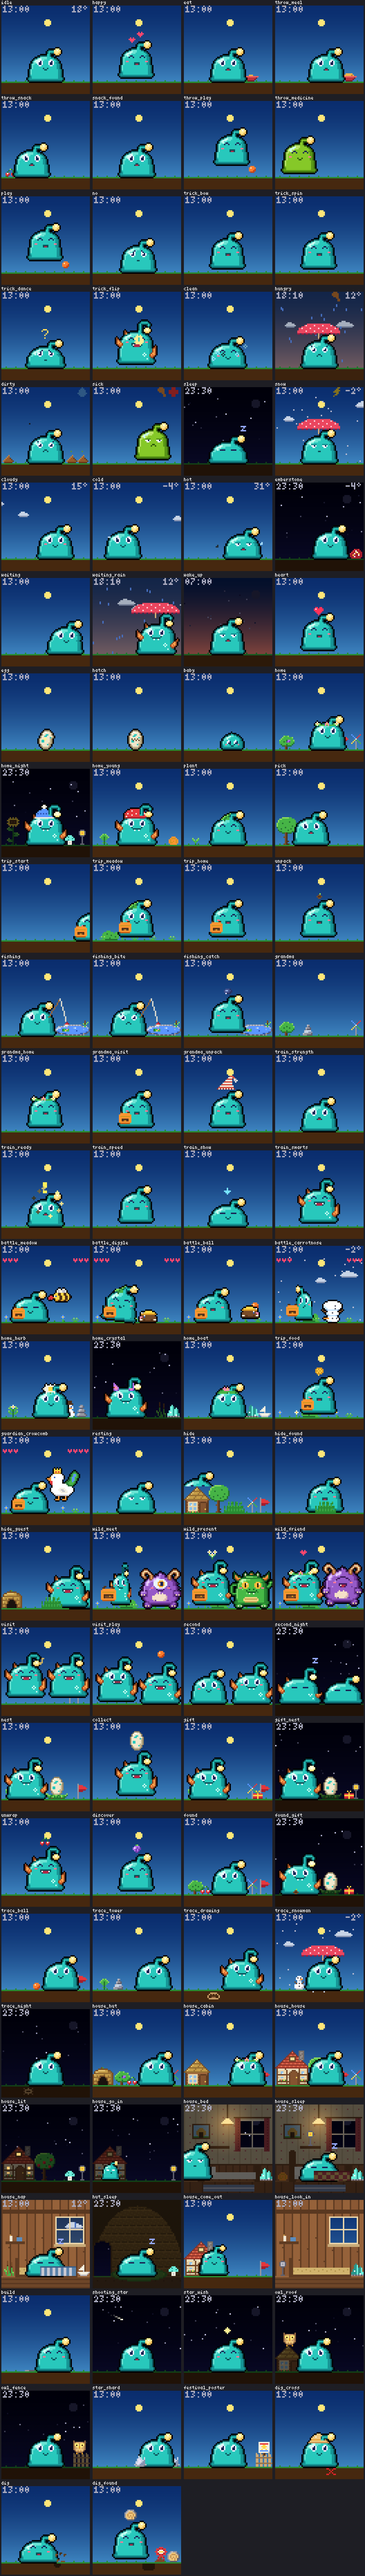
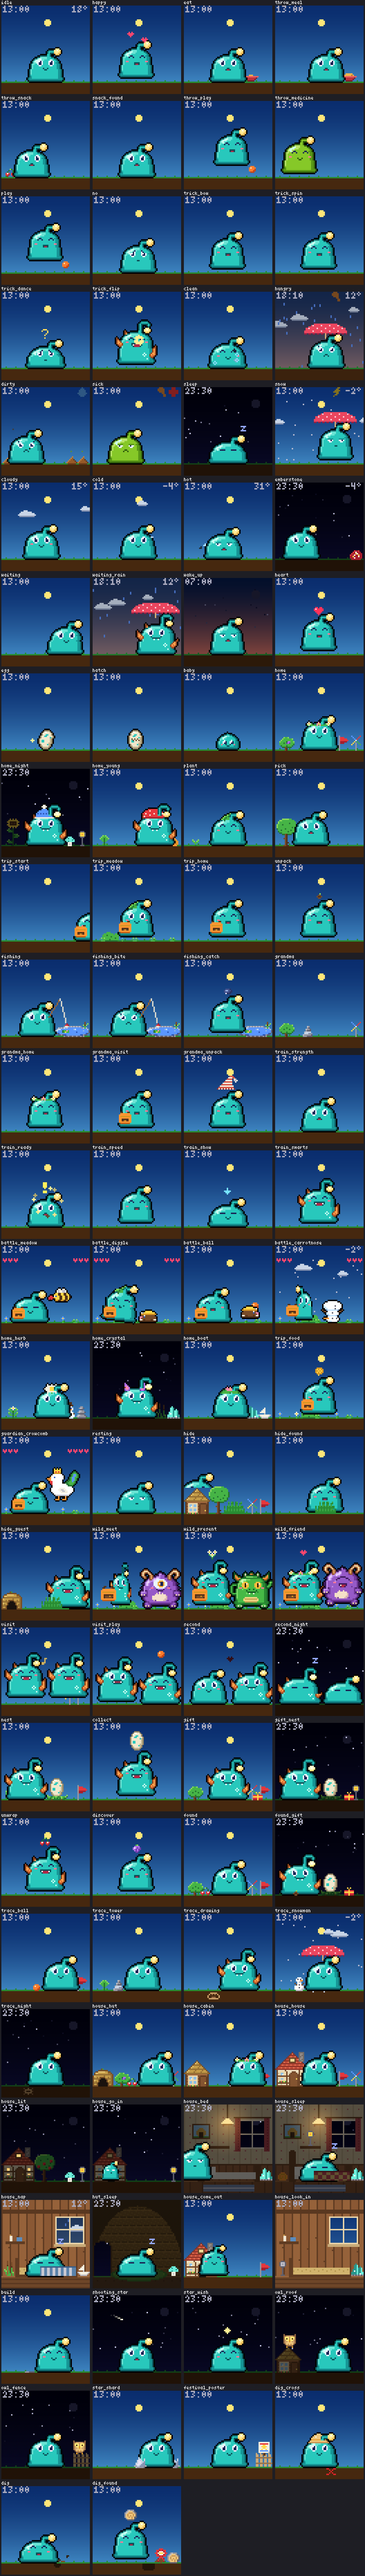
Stand things on the grass line like the pet
The pet's outline sits on the grass row, while the house, the plant,
decorations, the trough and what lies around stood one row above it,
so a pet next to them looked a pixel lower.

Claude-Session: https://claude.ai/code/session_01DKU8fqd6qXXEekbLQJTeHp

diff --git a/core/src/scene.ts b/core/src/scene.ts
@@ -144,7 +144,7 @@ const HOUSE_SIZE: readonly (readonly [number, number])[] = [[0, 0], [15, 13], [1
 export function houseArea(step: number): [number, number, number, number] {
   const [w, h] = HOUSE_SIZE[step];
   const part = (n: number) => Number((n / 64).toFixed(3));
-  return [0, part(GROUND + 1 - h), part(w), part(h)];
+  return [0, part(GROUND + 2 - h), part(w), part(h)];
 }
 // Hide and seek: the tall grass is a hiding spot that is always there; one hiding below a cover
 // peeks out over it now and then, this many rows at the most
@@ -211,7 +211,7 @@ const YARD_WALK = 2.5; // seconds from the trough over to the basin
 export function yardArea(what: "trough" | "basin", size: number): [number, number, number, number] {
   const width = YARD_WIDTH[size];
   const height = YARD_HEIGHT[size] + YARD_HEAP;
-  const area = [YARD_X[what] - width / 2, GROUND + 1 - height, width, height];
+  const area = [YARD_X[what] - width / 2, GROUND + 2 - height, width, height];
   return area.map((v) => Number((v / 64).toFixed(3))) as [number, number, number, number];
 }
 
@@ -1646,7 +1646,7 @@ export class PetScene {
       this.drawHome(img, view, t, seconds);
       const poop = items.image("poop");
       for (let i = 0; i < Math.min(view.poops, POOP_X.length); i++) {
-        img.paste(poop, POOP_X[i], GROUND + 1 - poop.height);
+        img.paste(poop, POOP_X[i], GROUND + 2 - poop.height);
         if (Math.trunc(t * 2 + i) % 2 === 0) { // stink
           img.point(POOP_X[i] + 3 + (i % 2), GROUND - 8, [90, 140, 60]);
         }
@@ -5449,7 +5449,7 @@ export class PetScene {
       const missed = bite !== null && e >= bite + fishing.BITE_WINDOW;
       pose.face = under ? "eat_open" : missed ? "sad" : Math.trunc(t) % 5 === 0 ? "blink" : "normal";
       pose.body = under && Math.trunc(t * 6) % 2 ? "stretch" : "idle";
-      pose.rod = [rim + Math.floor(water.width / 3), GROUND + 1 - water.height + FISH_WATER, under];
+      pose.rod = [rim + Math.floor(water.width / 3), GROUND + 2 - water.height + FISH_WATER, under];
     }
     this.targetX = this.x;
   }
@@ -5686,7 +5686,7 @@ export class PetScene {
 
   /** Stand something on the ground, centered at cx. */
   private stand(img: Image, sprite: Image, cx: number, lift = 0): void {
-    img.paste(sprite, cx - Math.floor(sprite.width / 2), GROUND + 1 - sprite.height - lift);
+    img.paste(sprite, cx - Math.floor(sprite.width / 2), GROUND + 2 - sprite.height - lift);
   }
 
   /** The rod held up in front of the pet, the line down to the bobber, and the bobber rocking on the water or under it. */
@@ -5774,7 +5774,7 @@ export class PetScene {
       const tag = plant.stage !== "grown" ? plant.stage : plant.kind + (plant.ripe ? "_ripe" : "");
       const sprite = this.dimmedSprite(tag);
       this.stand(img, sprite, plantX);
-      this.covers.set("plant", GROUND + 1 - sprite.height);
+      this.covers.set("plant", GROUND + 2 - sprite.height);
     }
     if (view.peeking) {
       this.drawPeeking(img, view.peeking, t);
@@ -5793,7 +5793,7 @@ export class PetScene {
     [...deco.keys()].sort((a, b) => Number(deco[b] === "pond") - Number(deco[a] === "pond")).forEach((i) => {
       const sprite = this.dimmedSprite(deco[i], t, true);
       this.stand(img, sprite, this.decoX(i, sprite.width));
-      this.covers.set(`deco${i}`, GROUND + 1 - sprite.height);
+      this.covers.set(`deco${i}`, GROUND + 2 - sprite.height);
     });
     this.covers.set("grass", GROUND + 1 - TALL_GRASS);
     if (view.nest) {
@@ -5923,7 +5923,7 @@ export class PetScene {
 
   /** The top of the roof (without a house: the fence), where the owl sits: [x, y of its feet]. */
   private static roof(step: number): readonly [number, number] {
-    return step ? [Math.round(HOUSE_SIZE[step][0] / 2), GROUND + 2 - HOUSE_SIZE[step][1]] : [OWL_FENCE_X, FENCE_TOP + 1];
+    return step ? [Math.round(HOUSE_SIZE[step][0] / 2), GROUND + 3 - HOUSE_SIZE[step][1]] : [OWL_FENCE_X, FENCE_TOP + 1];
   }
 
   /** Whether what a shooting star left lies up on the roof: the owl's egg, where the owl sat. */
@@ -5934,7 +5934,7 @@ export class PetScene {
   /** What a shooting star left in the garden, in front of the pet so that it can't be covered. */
   private drawFallen(img: Image, view: SceneView, t: number): void {
     if (view.fallen && !PetScene.onRoof(view)) {
-      this.drawFallenAt(img, view.fallen, STAR_X[view.house ?? 0], GROUND + 1, t);
+      this.drawFallenAt(img, view.fallen, STAR_X[view.house ?? 0], GROUND + 2, t);
     }
   }
 
@@ -6120,8 +6120,8 @@ export class PetScene {
     const inside = view.asleep && !(view.activity === "go_in" && e < GO_IN.shrink);
     const sprite = open ? this.dimmedSprite(`house_${step}_open`, t, false, "house")
       : this.dimmedSprite(`house_${step}`, t, inside, "house");
-    img.paste(sprite, 0, GROUND + 1 - sprite.height);
-    this.covers.set("house", GROUND + 1 - sprite.height);
+    img.paste(sprite, 0, GROUND + 2 - sprite.height);
+    this.covers.set("house", GROUND + 2 - sprite.height);
   }
 
   /** The inside of the house: the room (its window shows the sky behind it) and the decorations in it. */

diff --git a/core/test/scene.test.ts b/core/test/scene.test.ts
@@ -551,9 +551,9 @@ test("the house: outside on the left, inside while the pet sleeps, and the way i
     // the app finds the house where the scene draws it
     const [x, y, w, h] = houseArea(step).map((part) => Math.round(part * 64));
     const sprite = sheets.house.image(`house_${step}`);
-    assert.deepEqual([x, y, w, h], [0, GROUND + 1 - sprite.height, sprite.width, sprite.height], `step ${step}`);
+    assert.deepEqual([x, y, w, h], [0, GROUND + 2 - sprite.height, sprite.width, sprite.height], `step ${step}`);
     const outside = frames({ house: step }, 1)[0];
-    assert.ok(differing(garden, outside, y, GROUND + 1) > w * h / 3, `step ${step}`);
+    assert.ok(differing(garden, outside, y, GROUND + 2) > w * h / 3, `step ${step}`);
 
     // asleep, the scene shows the room; its window (or the hut's doorway) shows the sky, as outside
     const sky = frames({ asleep: true }, 1, NIGHT)[0];
